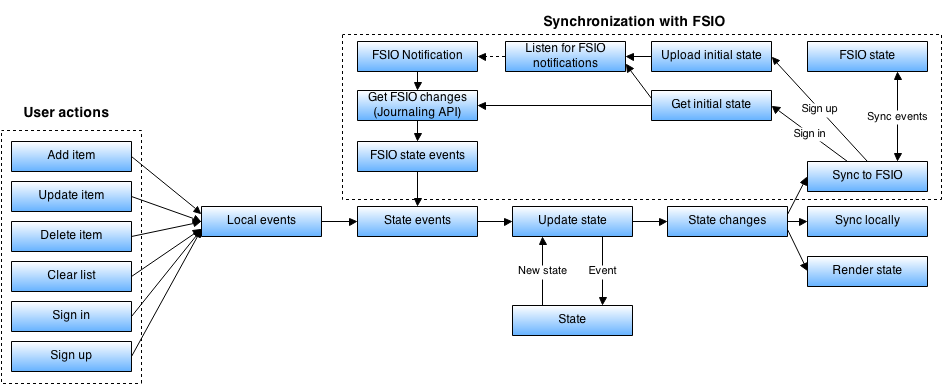
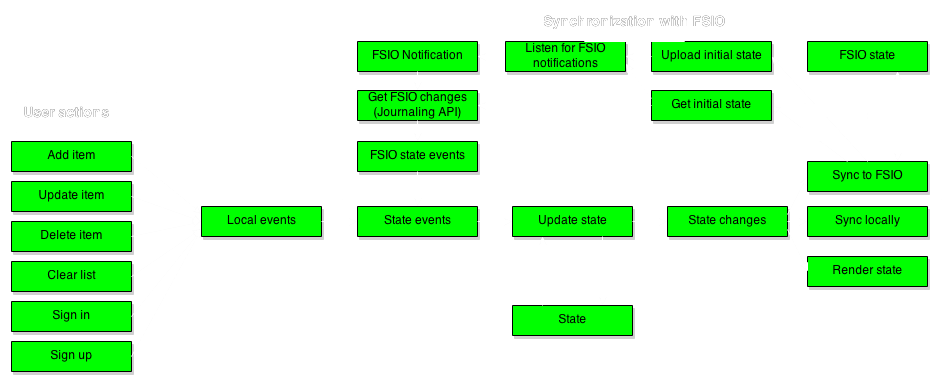
Add client flow diagram

diff --git a/index.html b/index.html
@@ -75,11 +75,12 @@
 				</section>
 	
 				<section>
-				<h2>Technical Solution</h2>
-				<img src="img/client_flow.png"></img>
-				<p class="fragment">Functional Reactive Programming (FRP) á la Bacon.js</p>
-				<p class="fragment">Immutable data structures á la Mori</p>
-				<p class="fragment">Functional interface á la Facebook React</p>
+					<h2>Technical Solution</h2>
+				</section>
+
+				<section data-background="#ffffff">
+				<h2 style="color: #000000">Client Flow</h2>
+				<img style="border: none; box-shadow: none;" src="img/client_flow.svg"></img>
 				</section>
 	
 				<section>
